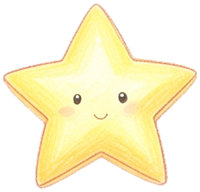
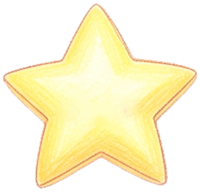
Math: counting pictures in neat rows of five; remove faces from star and banana stickers

diff --git a/public/css/style.css b/public/css/style.css
@@ -1701,3 +1701,8 @@ a.shop-ava { display: block; }
 .mq-num { font: 700 2rem var(--en); }
 .mini-quiz .m-count { font-size: 1.8rem; gap: 6px; margin: 6px auto; } .mini-quiz .mq-q .m-pic { width: 1.4em; height: 1.4em; vertical-align: -.35em; }
 .en-intro .row { margin: 10px 0; }
+/* 수 세기 그림 정렬: 다섯 칸씩 한 줄, 같은 크기 칸에 가운데 맞춤 (2026-11-26) */
+.m-count, .m-viz.m-count { display: grid; grid-template-columns: repeat(5, auto); gap: 8px; width: max-content; max-width: 100%; margin: 10px auto; justify-content: center; }
+.m-count > span { width: 1.45em; height: 1.45em; display: grid; place-items: center; background: var(--soft); border: 2px solid var(--line); border-radius: 12px; }
+.m-count > span .m-pic { width: 1.1em; height: 1.1em; object-fit: contain; }
+.mini-quiz .m-count { font-size: 1.6rem; gap: 6px; }
